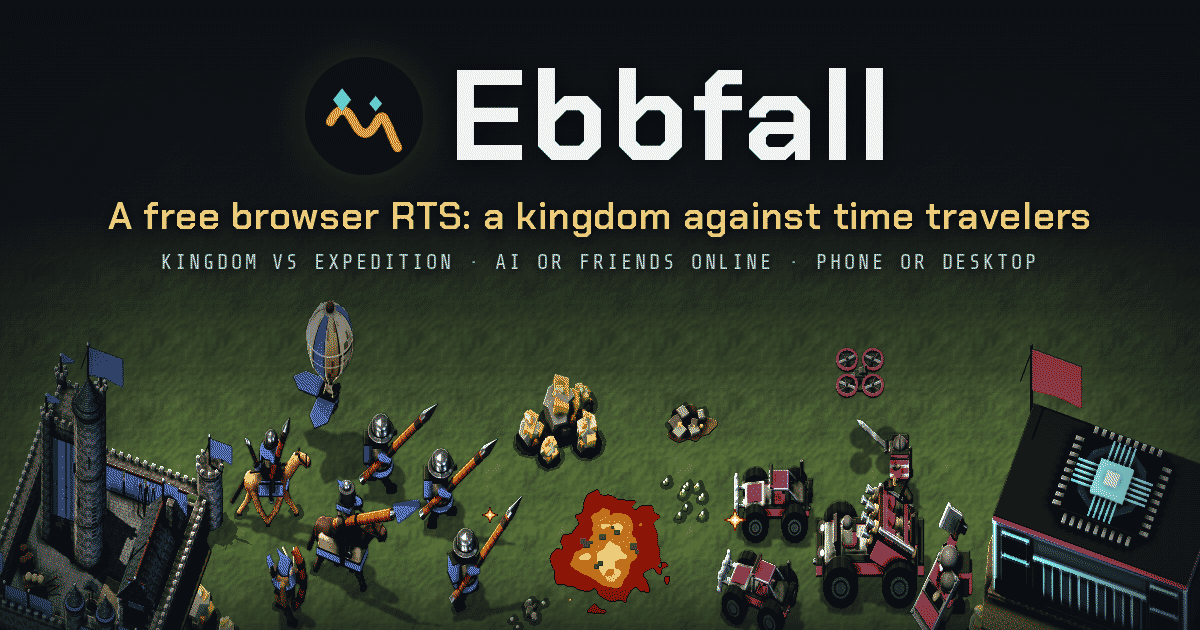
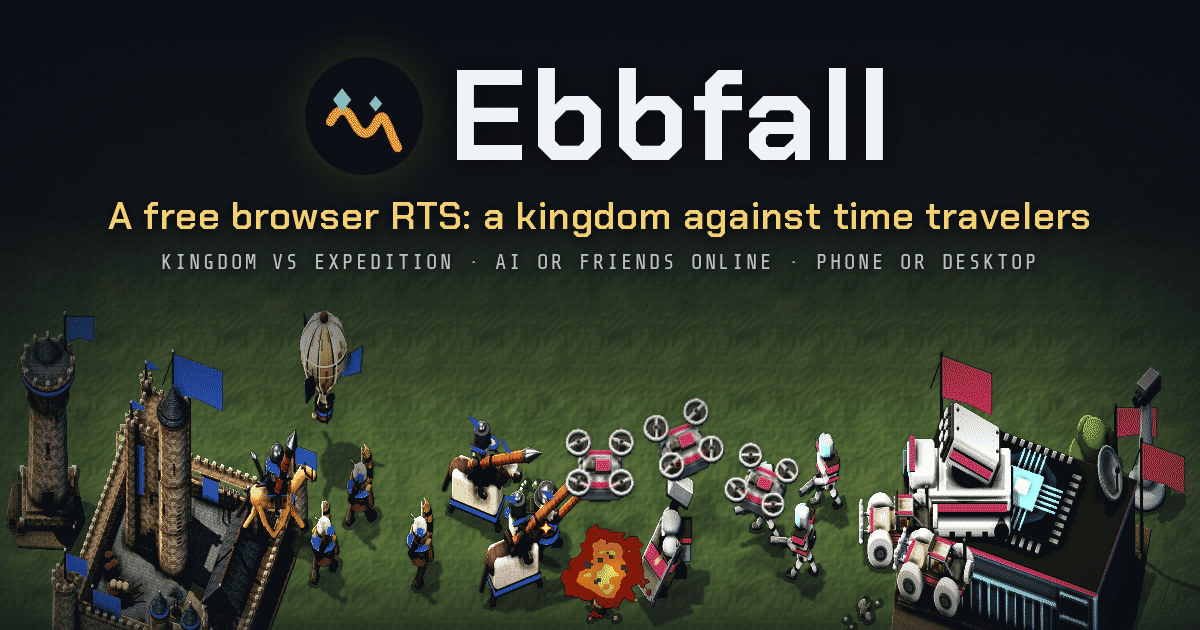
Lay og.png's battle under the menu's first page as a band per size class (tools/menu-art.mjs), from one scene shared with og.png (tools/scene.mjs: Drones front and center, Androids, no gold crystals), og.png regenerated with it

diff --git a/src/style.css b/src/style.css
@@ -260,6 +260,15 @@ dialog.scrim[open]{display:flex} dialog.scrim::backdrop{background:transparent}
 #start .tide,#online .tide{animation:ebb 18s ease-in-out infinite alternate} :is(#start,#online) .tide.t2{animation-duration:23s;animation-delay:-7s} :is(#start,#online) .tide.t3{animation-duration:29s;animation-delay:-13s}
 @keyframes ebb{from{transform:translate(0,0)}to{transform:translate(-14px,5px)}}
 @media (prefers-reduced-motion:reduce){:is(#start,#online) .tide{animation:none}}
+/* The field under the first page (the .scene in the .shore: public/menu/menu-<class>.webp, tools/menu-art.mjs): og.png's battle as a band across the bottom 40% of the screen (36% on a short phone, 26% upright), one image per size class, its top faded into the floor, so the premise line and the buttons sit on the plain floor as before (the image is under the page, a thing of the shore's: it can push nothing). It drifts with the tide, a shade slower (one transform on the <picture>, composited); none under prefers-reduced-motion. Over it only the lowest tide line stays, moved to the band's foot (the field meets the water, clear of the front ranks); the two upper lines and the bank's stones go. Under 360 px of height there is no band (it would sit under the buttons): the shore is as it was. The floor shows while the image loads, and when it never does. */
+#start .scene{position:absolute;left:-20px;bottom:-8px;width:calc(100% + 40px);height:40%;display:block;animation:ebb 37s ease-in-out infinite alternate;animation-delay:-20s}
+#start .scene img{display:block;width:100%;height:100%;object-fit:cover;object-position:50% 100%}
+@media (min-height:360px){#start .shore:has(.scene) :is(.tide.t1,.tide.t2,svg:not(.tide)){display:none} #start .shore:has(.scene) .tide.t3{bottom:-26px}}
+@media (min-height:360px) and (min-aspect-ratio:2/1){#start .shore:has(.scene) .tide.t3{bottom:-60px}} /* (21:9: the line's SVG is scaled wider, so it sits higher; down with it) */
+@media (max-height:420px){#start .scene{height:36%} #start .shore:has(.scene) .tide.t3{bottom:-38px}} /* (a short phone: the band's foot is the screen's edge, the line where the shore already puts it) */
+@media (orientation:portrait){#start .scene{height:26%} #start .shore:has(.scene) .tide.t3{bottom:-8px}} /* (upright: the band is low and its SVG small, the line already at its foot) */
+@media (max-height:359px){#start .scene{display:none}}
+@media (prefers-reduced-motion:reduce){#start .scene{animation:none}}
 #menuHome .rec{margin-top:4px;min-height:1em;font-size:11px} #menuHome .rec:empty{display:none} /* (the build stamp: small and muted at the foot, clear of the tide lines) */
 /* The first page's footer line: How to play and About, the docs, in a new tab (one muted mono line, amber underlined on hover). */
 #menuLinks{margin:8px 0 0;display:flex;flex-wrap:wrap;justify-content:center;align-items:center;gap:0 8px;font:12px var(--mono);color:var(--muted)}

diff --git a/index.html b/index.html
@@ -121,6 +121,13 @@
         </div>
         <!-- The water's edge: the water at the bottom edge, three lines that drift and a few stones left on the bank. Each line is an <svg> of its own, so its drift is one transform on the compositor; the whole thing is hidden with this page. -->
         <div class="shore" aria-hidden="true">
+          <!-- The field under the first page (public/menu/, tools/menu-art.mjs): og.png's battle as a band at the foot of the screen, one image per size class (upright, a short landscape, 21:9 and wider, else the desktop's); the floor shows while it loads. -->
+          <picture class="scene">
+            <source media="(orientation: portrait)" srcset="menu/menu-portrait.webp">
+            <source media="(max-height: 420px)" srcset="menu/menu-landscape.webp">
+            <source media="(min-aspect-ratio: 2/1)" srcset="menu/menu-wide.webp">
+            <img src="menu/menu-desktop.webp" alt="" decoding="async" fetchpriority="low" width="1920" height="480">
+          </picture>
           <svg class="tide t1" viewBox="0 0 844 390" preserveAspectRatio="xMidYMax slice"><path d="M-40 296c60-10 120 10 180 0s120-10 180 0 120 10 180 0 120-10 180 0 120 10 180 0 60-5 100 0" fill="none" stroke="#4fd1c5" stroke-width="1.5" stroke-opacity=".10"/></svg>
           <svg class="tide t2" viewBox="0 0 844 390" preserveAspectRatio="xMidYMax slice"><path d="M-40 318c60-8 120 8 180 0s120-8 180 0 120 8 180 0 120-8 180 0 120 8 180 0 60-4 100 0" fill="none" stroke="#4fd1c5" stroke-width="1.5" stroke-opacity=".16"/></svg>
           <svg class="tide t3" viewBox="0 0 844 390" preserveAspectRatio="xMidYMax slice"><defs><linearGradient id="shoreSea" x1="0" y1="0" x2="0" y2="1"><stop offset="0" stop-color="#4fd1c5" stop-opacity="0"/><stop offset="1" stop-color="#4fd1c5" stop-opacity=".14"/></linearGradient></defs><path d="M-40 352c60-10 120 10 180 0s120-10 180 0 120 10 180 0 120-10 180 0 120 10 180 0 60-5 100 0V460H-40Z" fill="url(#shoreSea)"/><path d="M-40 352c60-10 120 10 180 0s120-10 180 0 120 10 180 0 120-10 180 0 120 10 180 0 60-5 100 0" fill="none" stroke="#4fd1c5" stroke-width="2" stroke-opacity=".32"/></svg>

diff --git a/tools/render3d/main.js b/tools/render3d/main.js
@@ -77,14 +77,17 @@ function fitTints() {
 }
 
 window.render = async function (filter = '', opts = {}) {
-  const out = [];
+  const out = [], ZOOM = opts.zoom || 1; // (`zoom`: every sprite that many times the atlas's scale)
   const want = (name) => !filter || new RegExp(filter).test(name);
   const anchor = (cell) => ({ x: cell.ax / cell.w, y: cell.ay / cell.h });
   const sprite = (name, img, cell, extra) => out.push({ name, w: img.width, h: img.height, data: enc(img), anchor: anchor(cell), ...extra });
-  const push = (name, obj, cell, opts = {}) => { if (want(name)) sprite(name, shoot(obj, { ...cell, ...opts }), cell); };
+  /** A sprite drawn `z` times larger than the atlas's (the model and its cell scaled together; tools/menu-art.mjs's hero band). */
+  const zoomed = (obj, cell, z) => { if (!z || z === 1) return cell; obj.scale.multiplyScalar(z); return { w: Math.ceil(cell.w * z), h: Math.ceil(cell.h * z), ax: Math.round(cell.ax * z), ay: Math.round(cell.ay * z) }; };
+  const push = (name, obj, cell, opts = {}) => { if (!want(name)) return; cell = zoomed(obj, cell, ZOOM); sprite(name, shoot(obj, { ...cell, ...opts }), cell); };
   /** A team-colored sprite: the neutral render `name` and its team mask `name_m` (trimmed by the packer). */
   const pushTeam = (name, obj, cell, opts = {}, extra = {}) => {
     if (!want(name)) return;
+    cell = zoomed(obj, cell, ZOOM);
     const { img, mask } = shoot(obj, { ...cell, ...opts, mask: true });
     sprite(name, img, cell, extra); sprite(`${name}_m`, mask, cell, { trim: true });
   };

diff --git a/ARCHITECTURE.md b/ARCHITECTURE.md
@@ -510,6 +510,9 @@ test/e2e/             browser tests: harness.mjs (serves dist/, drives mouse/key
                       gone; the ? and its help sheet, the game running on, closed by Esc, its button or the ?, from the
                       pause card too; every docs page with JavaScript off at 360 px: whole, every unit and building
                       listed, no sideways scroll, finger-sized tabs and buttons, a slim bar in landscape),
+                      field.e2e.mjs (the field under the first page: the right image per size class, under the premise
+                      line, the buttons unmoved, the floor when the image does not come, the drift stopped under reduced
+                      motion, no band on a screen too short),
                       bench.e2e.mjs (?bench: a short run measured, its report sent through a local relay, read back by code;
                       no keys while it measures, a swapped game stops it, a relay that does not answer),
                       corner.e2e.mjs (sound and full screen on every screen and card, clear of their content; iPad and
@@ -648,7 +651,12 @@ tools/trailer/        the trailer (the 30-second storyboard), recorded in the bu
                       sheets, 720p web copies and 2 fps frames. ffmpeg: FFMPEG, .tools/ffmpeg/ffmpeg (a static build with libx264) or the PATH's
 tools/og.mjs          public/og.png, the link preview's image (1200x630): the icon, the wordmark and a battle of the game's
                       own sprites, composed in headless Chromium, reduced to 256 colors to stay small; output committed
-public/               copied as is into dist/: the icons, the manifest, art/; og.png, robots.txt and sitemap.xml are for
+tools/menu-art.mjs    public/menu/menu-<wide|desktop|landscape|portrait>.webp, the field under the menu's first page: og.png's
+                      battle as a band (the Castle and the Data center with their armies), the game's 3D models rendered
+                      through tools/render3d at twice the atlas's scale (render3d.mjs's `zoom`), the ground and the effects
+                      from public/art, one image per size class with the night veil and the top fade baked in, composed
+                      and written as WebP in headless Chromium; output committed (run after changing the models or the scene)
+public/               copied as is into dist/: the icons, the manifest, art/, menu/ (the first page's field); og.png, robots.txt and sitemap.xml are for
                       crawlers and link previews (tools/offline/plugin.mjs WEB_ONLY: not stored for offline play)
 scripts/headless.js   scripted bot-vs-AI run for balance checks
 scripts/build-wasm.mjs cargo build for wasm32 + wasm-bindgen into src/engine/pkg/
